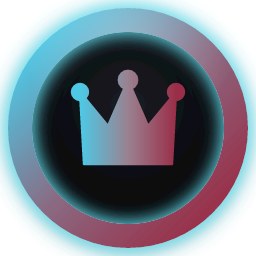
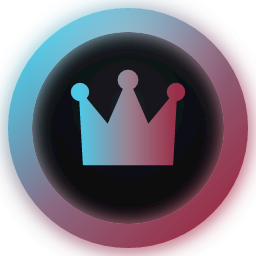
Move Elite to Service tab, balance the badge glow
Elite now sits under Service rather than Limited. The ring glow is a
blurred light copy of the same cyan-to-crimson gradient, so the cyan
side glows cyan and the crimson side glows crimson, matching the
family rule that the halo tracks the ring (no more cyan bias).

diff --git a/script.js b/script.js
@@ -1870,7 +1870,7 @@ const COMMENDATION_REGISTRY = {
         tiers: [1],
     },
     elite: {
-        category: 'Limited',
+        category: 'Service',
         name: 'Elite',
         description: 'Rise above the rest',
         tiers: [1],